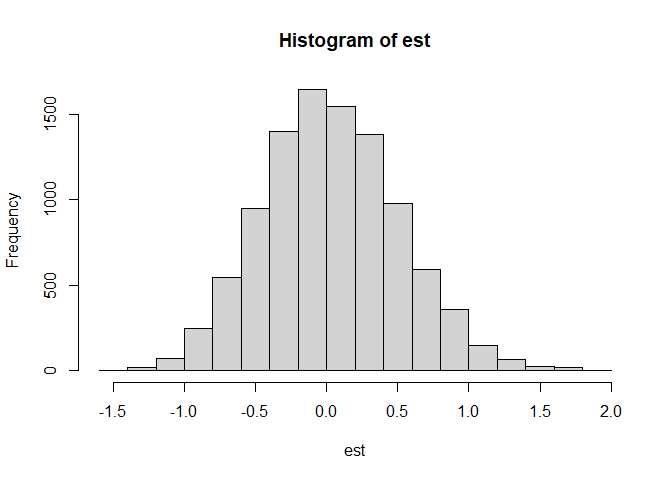
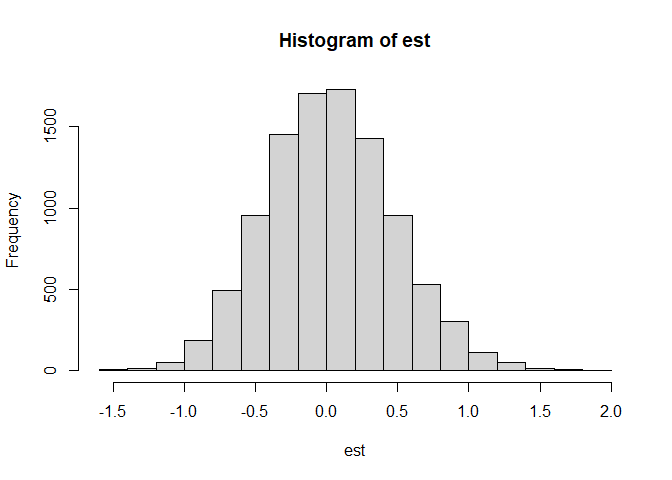
feat: L2 Correções MC

diff --git a/Notebooks/Lista_2.md b/Notebooks/Lista_2.md
@@ -61,9 +61,10 @@ library(data.table)
 ## Implementação FRT da aula
 
 ``` r
+# Conjunto de dados
 data(lalonde)
-z <- lalonde$treat
-y <- lalonde$re78
+z <- lalonde$treat # Tratamento
+y <- lalonde$re78 # Resposta
 
 n <- nrow(lalonde)
 n1 <- sum(z)
@@ -86,22 +87,30 @@ for (i in 1:mc) {
 pvalor_frt_mc <- mean(abs(est_teste_frt_mc) > abs(est_teste_frt))
 
 # FRT clássico teste t para dif medias 
-est_test_frt_classico_t <- t.test(y[z == 1], y[z == 0], var.equal = TRUE)$statistic
-pvalor_frt_classico_t <- t.test(y[z == 1], y[z == 0], var.equal = TRUE)$p.value
+est_test_frt_classico_t <- t.test(y[z == 1], 
+                                  y[z == 0], var.equal = TRUE)$statistic
+pvalor_frt_classico_t <- t.test(y[z == 1], 
+                                y[z == 0], var.equal = TRUE)$p.value
 
 # FRT MC via clássico teste t para dif medias 
 est_test_frt_classico_t_mc <- rep(0, mc)
+
 for (i in 1:mc) {
   z_permut <- sample(z)
-  est_test_frt_classico_t_mc[i] <- t.test(y[z_permut == 1], y[z_permut == 0], var.equal = TRUE)$statistic
+  est_test_frt_classico_t_mc[i] <- t.test(y[z_permut == 1], 
+                                          y[z_permut == 0], 
+                                          var.equal = TRUE)$statistic
 }
-pvalor_frt_classico_t_mc <- mean(abs(est_test_frt_classico_t_mc) > abs(est_test_frt_classico_t))
+
+pvalor_frt_classico_t_mc <- mean(
+  abs(est_test_frt_classico_t_mc) > abs(est_test_frt_classico_t
+                                        ))
 ```
 
 ## Implementação FRT Estatística *t*-studentizada
 
 ``` r
-FRT.t.studentizada <- function(DT, Y, Z) {
+FRT.t.studentizada <- function(DT, Y, Z, mc = 10^5) {
   
   y <- DT[[Y]]
   z <- DT[[Z]]
@@ -114,11 +123,20 @@ FRT.t.studentizada <- function(DT, Y, Z) {
   s2_1 <- var(y[z == 1])
   s2_0 <- var(y[z == 0])
   
-  t_FRT <- tau/(sqrt(s2_1/n1 + s2_0/n0))
+  est_teste_frt <- tau/(sqrt(s2_1/n1 + s2_0/n0))
+
+  est_teste_frt_mc <- rep(0, mc)
+  for (i in 1:mc) {
+    zpermut <- sample(z)
+    tau_permut <- mean(y[zpermut == 1]) - mean(y[zpermut == 0])
+    s2_1_permut <- var(y[zpermut == 1])
+    s2_0_permut <- var(y[zpermut == 0])
+    est_teste_frt_mc[i] <- tau_permut/(sqrt(s2_1_permut/n1 + s2_0_permut/n0))
+  }
   
-  pvalor <- 2 - 2 * pnorm(t_FRT)
+  pvalor_frt_mc <- mean(abs(est_teste_frt_mc) > abs(est_teste_frt))
   
-  return(pvalor)
+  return(pvalor_frt_mc)
   
 }
 
@@ -128,7 +146,7 @@ pvalor_frt_t_studentizada <- FRT.t.studentizada(lalonde, "re78", "treat")
 ## Implementação FRT Estatística de Wilcox
 
 ``` r
-FRT.wilcox <- function(DT, Y, Z) {
+FRT.wilcox <- function(DT, Y, Z, mc = 10^5) {
   
   y <- DT[[Y]]
   z <- DT[[Z]]
@@ -141,14 +159,26 @@ FRT.wilcox <- function(DT, Y, Z) {
   
   W <- sum(z * posto_y)
   
+  NTIES <- table(posto_y)
+  
   E_W <- n1 * (n + 1)/2
-  S_W <- sqrt(n1 * n0 * (n + 1) * 1/12)
+  # Estimativa da variância com correção para empates
+  S_W <- sqrt(n1 * n0 * 1/12 * ((n + 1) - sum(NTIES^3 - NTIES)/((n) * (n - 1))))
   
-  W_FRT <- (W - E_W)/S_W
+  est_teste_frt <- (W - E_W)/S_W
   
-  pvalor <- 2 - 2 * pnorm(W_FRT)
+  est_teste_frt_mc <- rep(0, mc)
+  for (i in 1:mc) {
+    zpermut <- sample(z)
+    W_permut <- sum(zpermut * posto_y)
+    
+    est_teste_frt_mc[i] <- (W_permut - E_W)/S_W
+    
+  }
   
-  return(pvalor)
+  pvalor_frt_mc <- mean(abs(est_teste_frt_mc) > abs(est_teste_frt))
+  
+  return(pvalor_frt_mc)
   
 }
 
@@ -171,7 +201,7 @@ c("FRT CLT" = pvalor_frt_clt,
     ##              FRT Estatística t           FRT Estatística t MC 
     ##                    0.004787524                    0.004410000 
     ## FRT Estatística t studentizada         FRT Estatística Wilcox 
-    ##                    0.007491987                    0.012163129
+    ##                    0.007280000                    0.010780000
 
 O *p-valor* do FRT utilizando a estatística *t*-studentizada, apesar de
 estar próximo dos demais, é mais conservador quanto a
@@ -219,6 +249,8 @@ n0 <- n - n1 # Qtd. controle
 y0 <- sort(rnorm(n), decreasing = TRUE) # Valores de y controle
 tau <- 0 # Efeito causal
 y1 <- y0 + tau # Valores de y tratamento
+z <- sample(c(0, 1), size = n, replace = T, prob = c(n0, n1)) # Simulando tratamentos
+y <- ifelse(z == 1, y1, y0) # Respostas
 
 # Qtd. de permutações n1 em n
 M <- factorial(n)/(factorial(n1)*factorial(n-n1))
@@ -229,8 +261,10 @@ Z <- data.table(t(gtools::combinations(n, n1)))
 # Identificador do registro
 ID <- data.table(id = seq_len(n))
 
-# Valor crítico (0.05)
-est_H0 <- qnorm(0.975)
+# FRT
+tau_est <- mean(y[z == 1]) - mean(y[z == 0])
+s2_est <- var(y)
+est_teste_frt <- tau_est/sqrt(n*s2_est/(n1*n0))
 
 # Teste FRT (diferença de médias)
 est_T <- apply(Z, 2, function(z) {
@@ -248,16 +282,12 @@ est_T <- apply(Z, 2, function(z) {
   # Vetor z_m completo
   z_m <- z_m[, z]
   
-  # Vetor y_m
-  y_m <- ifelse(z_m == 1, y1, y0)
-  
   # Efeito causal médio
-  tau <- mean(y_m[z_m == 1]) - mean(y_m[z_m == 0])
-  s2 = var(y_m)
-  
-  # FRT TCL
-  est_teste_frt <- tau/sqrt(n*s2/(n1*n0))
-  teste_frt <- est_teste_frt >= est_H0
+  tau <- mean(y[z_m == 1]) - mean(y[z_m == 0])
+
+  # FRT MC
+  est_teste_frt_mc <- tau/sqrt(n*s2_est/(n1*n0))
+  teste_frt <- abs(est_teste_frt_mc) > abs(est_teste_frt)
   
   return(teste_frt)
   
@@ -273,80 +303,57 @@ time_final <- Sys.time()
 time_final - time_init
 ```
 
-    ## Time difference of 29.13742 mins
+    ## Time difference of 28.37935 mins
 
-## *p-valores* aproximados para $R = 10^2, 10^3, 10^4$
+## *p-valores* aproximados
 
 ``` r
-R_valores <- c(10^2, 10^3, 10^4)
+# Valores de R para o MC
+R_valores <- seq(100, 100000, 100)
 
-p_R_lista <- list()
+# Valores de para cada R
+dt_p_FRT <- data.table()
 
+# FRT MC 
 for (R in R_valores) {
   
-  nome_lista <- paste0("R = ", R)
+  # Estatisticas MC
+  est_teste_frt_mc <- rep(0, R)
   
-  # Amostrando permutações
-  Z_R <- as.data.table(as_tibble(Z)[, c(sample(seq_len(M), size = R, replace = F))])
+  for (i in 1:R) {
+    zpermut <- sample(z)
+    tau_permut <- mean(y[zpermut == 1]) - mean(y[zpermut == 0])
+    est_teste_frt_mc[i] <- tau_permut/sqrt(n*s2_est/(n1*n0))
+    
+  }
   
-  # Teste FRT (diferença de médias)
-  est_T_R <- apply(Z_R, 2, function(z) {
-    
-    z_m <- Z_R[, .(z)]
-    
-    z_m[, id := z]
-    
-    z_m <- z_m[ID, on = .(id)]
-    z_m[, id := NULL]
-    
-    z_m[, z := ifelse(is.na(z), 0, 1)]
-    
-    z_m <- z_m[, z]
-    
-    y_m <- ifelse(z_m == 1, y1, y0)
-    
-    tau <- mean(y_m[z_m == 1]) - mean(y_m[z_m == 0])
-    s2 = var(y_m)
-    
-    est_teste_frt <- tau/sqrt(n*s2/(n1*n0))
-    
-    teste_frt <- est_teste_frt >= est_H0
-    
-    return(teste_frt)
-    
-  })
+  # Indicadora de T_MC > T_obs
+  T_est <- abs(est_teste_frt_mc) > abs(est_teste_frt)
   
-  p_hat_FRT <- mean(est_T_R)
+  # p_valor_hat
+  p_hat_FRT <- mean(T_est)
   
-  p_til_FRT <- sum(est_T_R)/(1+R)
+  # p_valor_til
+  p_til_FRT <- (1 + sum(T_est))/(1+R)
   
-  p_R_lista[[nome_lista]] <- c("p" = p_FRT,
-                               "p_hat" = p_hat_FRT,
-                               "p_til" = p_til_FRT)
+  # Salvando valores da iteração
+  dt_p_FRT_R <- data.table(R = R,
+                           p = p_FRT,
+                           p_hat = p_hat_FRT,
+                           p_til = p_til_FRT)
+  dt_p_FRT <- rbind(dt_p_FRT, dt_p_FRT_R)
+  
 }
 
-# R = 10^2
-p_R_lista[[1]]
+# Gráfico da convergência em R
+dt_p_FRT %>% 
+  pivot_longer(cols = c("p", "p_hat", "p_til"), names_to = "Estimativa", 
+               values_to = "p_valor") %>% 
+  ggplot() +
+  geom_line(aes(x = R, y = p_valor, color = Estimativa))
 ```
 
-    ##          p      p_hat      p_til 
-    ## 0.02415077 0.01000000 0.00990099
-
-``` r
-# R = 10^3
-p_R_lista[[2]]
-```
-
-    ##          p      p_hat      p_til 
-    ## 0.02415077 0.01900000 0.01898102
-
-``` r
-# R = 10^4
-p_R_lista[[3]]
-```
-
-    ##          p      p_hat      p_til 
-    ## 0.02415077 0.02570000 0.02569743
+![](Lista_2_files/figure-gfm/amostras_R-1.png)<!-- -->
 
 # Questão 6b
 
@@ -389,7 +396,7 @@ c("var_hat_tau" = var_hat_tau,
 ```
 
     ## var_hat_tau       V_til    V_til_MC 
-    ##  0.04603892  0.04053786  0.04545174
+    ##  0.04924418  0.05012765  0.04878292
 
 ``` r
 # Cobertura do valor real nos intervalos
@@ -400,7 +407,7 @@ for (i in 1:10^4) {
 mean(cobertura)
 ```
 
-    ## [1] 0.9454
+    ## [1] 0.9418
 
 ``` r
 hist(est)
@@ -408,13 +415,15 @@ hist(est)
 
 ![](Lista_2_files/figure-gfm/ilustracao-1.png)<!-- -->
 
+# Caso 1
+
 ``` r
 y0 <- sort(y0, decreasing = FALSE)
 var_hat_tau <- var(y1) / n1 + var(y0) / n0 - var(y1 - y0) / n
 var_hat_tau
 ```
 
-    ## [1] 0.00977355
+    ## [1] 0.009483101
 
 ``` r
 tau_hat_p <- c()
@@ -434,7 +443,7 @@ for (i in 1:10^4) {
 c(mean(V_til_p), mean(cobertura))
 ```
 
-    ## [1] 0.04563589 1.00000000
+    ## [1] 0.04894436 1.00000000
 
 ``` r
 hist(est)
@@ -442,13 +451,15 @@ hist(est)
 
 ![](Lista_2_files/figure-gfm/caso1-1.png)<!-- -->
 
+# Caso 2
+
 ``` r
 y0 <- sample(y0)
 var_hat_tau <- var(y1) / n1 + var(y0) / n0 - var(y1 - y0) / n
 var_hat_tau
 ```
 
-    ## [1] 0.0255929
+    ## [1] 0.02548106
 
 ``` r
 tau_hat_p <- c()
@@ -468,13 +479,15 @@ for (i in 1:10^4) {
 c(mean(V_til_p), mean(cobertura))
 ```
 
-    ## [1] 0.04590446 0.98710000
+    ## [1] 0.04904799 0.99180000
 
 ``` r
 hist(est)
 ```
 
 ![](Lista_2_files/figure-gfm/caso2-1.png)<!-- -->
+
+# Caso 3
 
 ``` r
 set.seed(123)
@@ -502,7 +515,7 @@ for (i in 1:10^4) {
 c(mean(V_til_p), mean(cobertura))
 ```
 
-    ## [1] 0.7914444 0.9970000
+    ## [1] 0.7987814 0.9960000
 
 ``` r
 hist(est)
